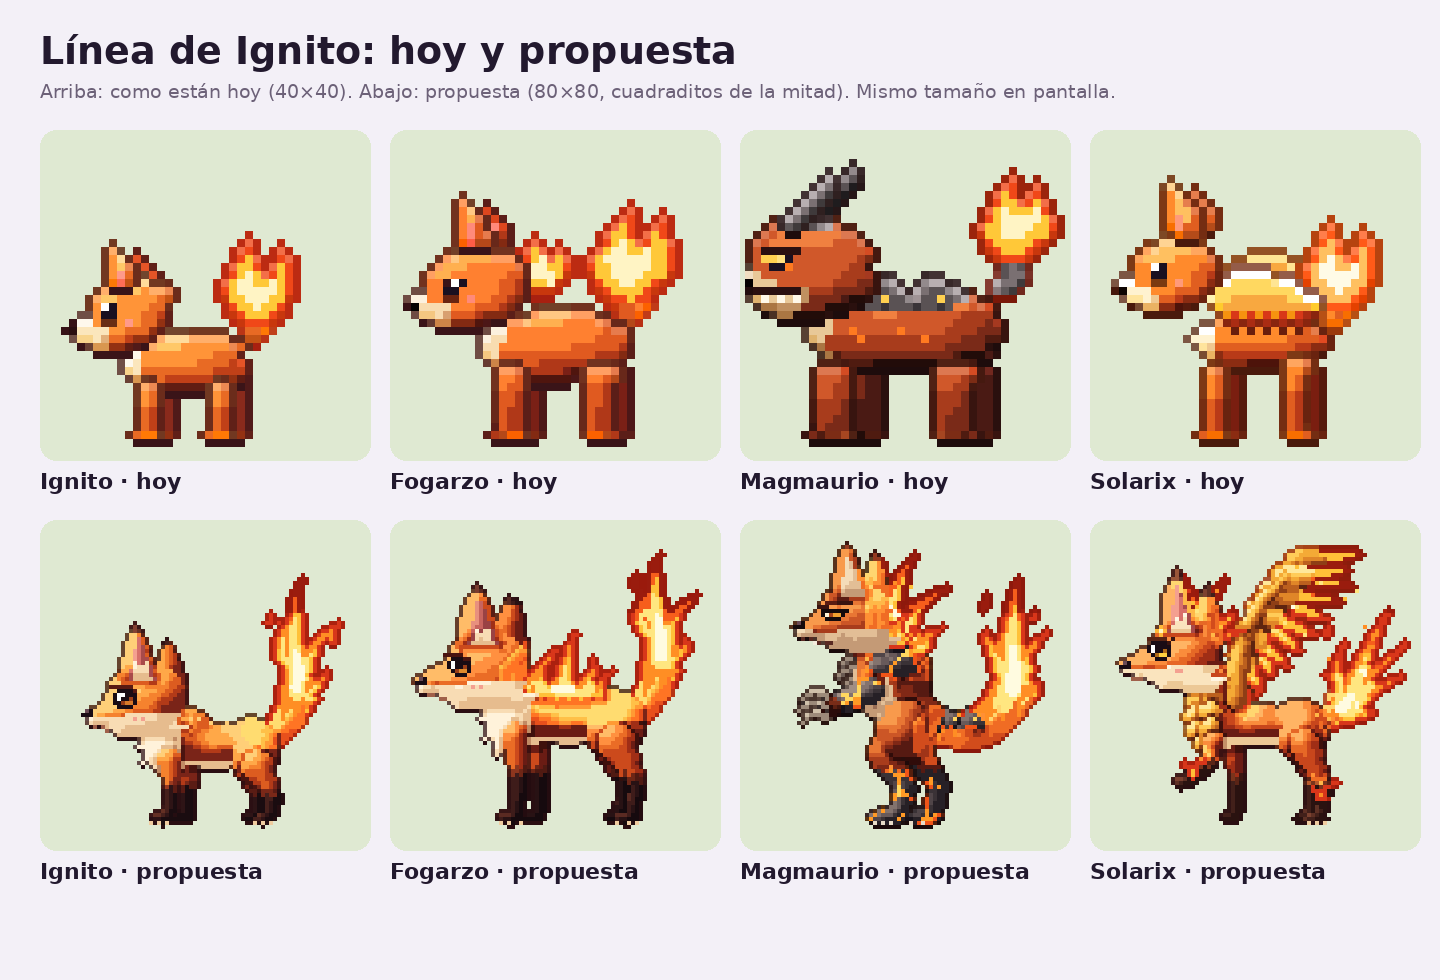
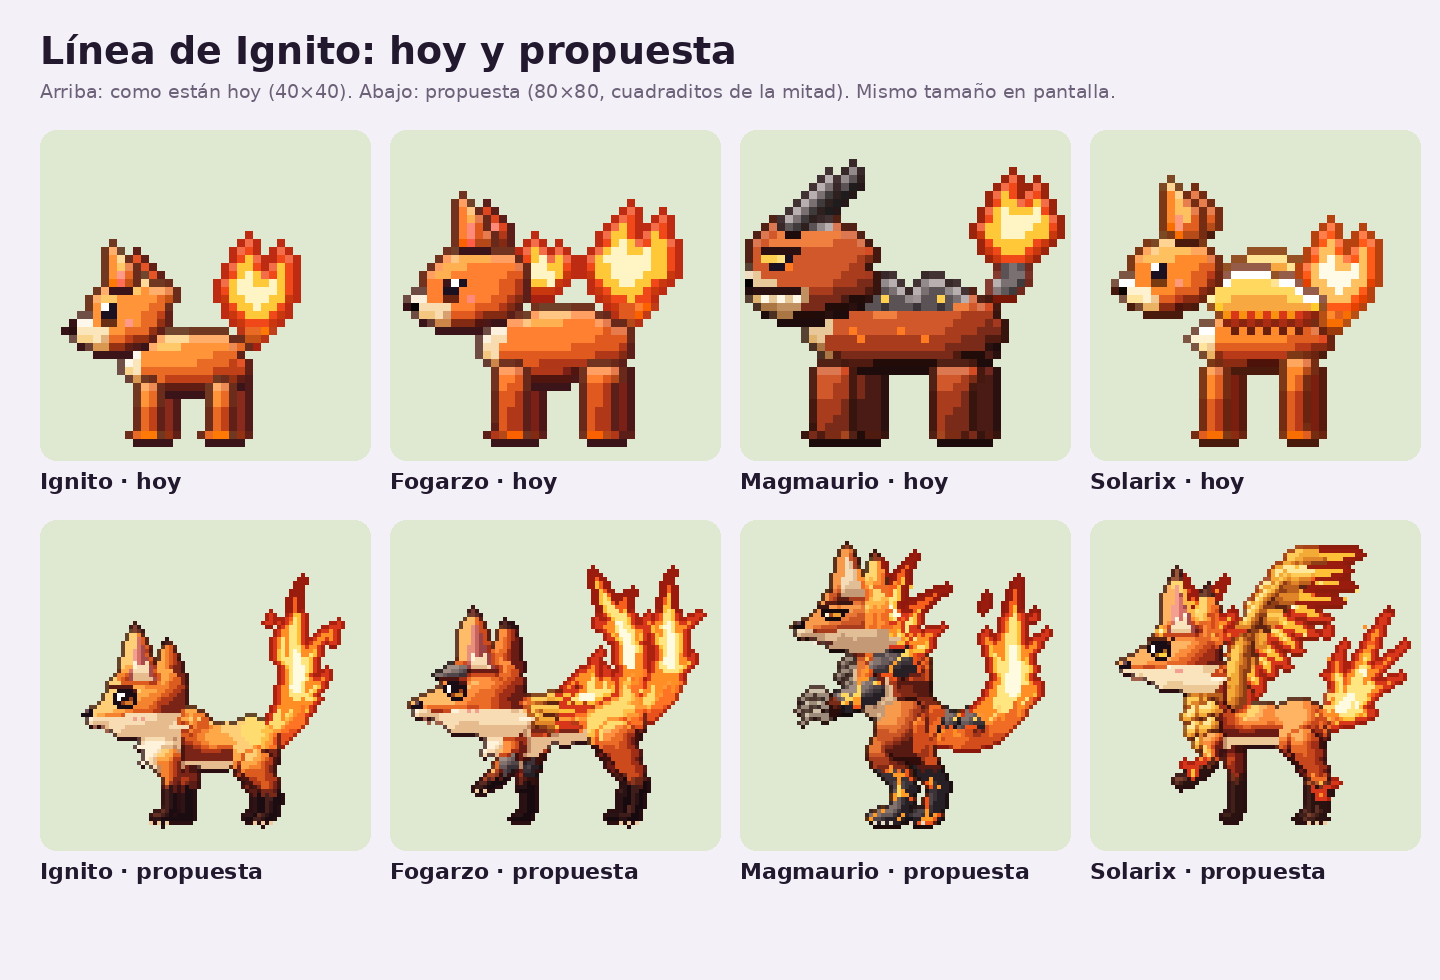
Estudio: Fogarzo en guardia, con dos colas y semillas de roca y alas
Claude-Session: https://claude.ai/code/session_01CbjX1Jp4CqY9crVcrZtYX4

Changed region(s): [[0.2812, 0.551, 0.5, 0.8571]]

diff --git a/estudio/fogarzo/fogarzo.py b/estudio/fogarzo/fogarzo.py
@@ -1,4 +1,4 @@
-"""Fogarzo: evolución de Ignito. «Su lomo arde como una hoguera.» Zorro joven: más alto y estilizado,
+"""Fogarzo (v2): evolución de Ignito. «Su lomo arde como una hoguera.» Zorro joven: más alto y estilizado,
 patas largas con calcetines oscuros hasta la rodilla, hocico más largo, mirada más decidida,
 crin de fuego a lo largo del lomo y cola encendida más larga."""
 import os, sys
@@ -13,9 +13,11 @@ RAMP = {
     'flame': ['#9a1c0e', '#d8361a', '#f65e1c', '#ff8e24', '#ffc038', '#ffe680', '#fffbe0'],
     'pink':  ['#9a4244', '#c8645e', '#e8907e'],
     'furd':  ['#32100e', '#501a12', '#6e2616', '#8c361e', '#a84626'],
+    'rock':  ['#16121a', '#262026', '#3a3236', '#504548', '#685a5a', '#83736e', '#a08e84'],
+    'gold':  ['#5e2410', '#8e3e16', '#bc601e', '#e08628', '#f4aa36', '#ffcc58', '#ffe89a'],
     'fur2':  ['#7a2418', '#b23a18', '#e8501c', '#ff7424', '#ff9a34', '#ffc048', '#ffdc70'],
 }
-MID = {'furd': 3, 'fur2': 4, 'fur': 4, 'cream': 3.9, 'sock': 2, 'flame': 4, 'pink': 1}
+MID = {'rock': 3.6, 'gold': 3.8, 'furd': 3, 'fur2': 4, 'fur': 4, 'cream': 3.9, 'sock': 2, 'flame': 4, 'pink': 1}
 SPAN = {'cream': 3.0, 'sock': 4, 'furd': 4}
 
 
@@ -26,60 +28,85 @@ def socks(top):
     return f
 
 
-def build(P):
-    c = Lienzo(RAMP, P, S=0.9, mid=MID, span=SPAN, lit={'fur': 'fur2', 'fur2': 'fur2', 'furd': 'furd'})
-    # ---- patas lejanas (largas; la trasera con corvejón marcado) ----
-    c.parte(c.caps([(54, 50), (57, 58), (60, 63), (58.5, 71)], [4.6, 3.0, 1.8, 1.6]) | c.ell(57, 72.9, 3.0, 1.5), socks(62), R=3, bias=-0.3, far=True)
-    c.parte(c.caps([(35, 49), (36, 60), (36, 71)], [3.2, 2.1, 1.7]) | c.ell(34.4, 72.9, 2.9, 1.5), socks(61), R=3, bias=-0.3, far=True)
-    # ---- cola: más larga que la de Ignito, se enciende desde la mitad ----
-    c.local(rot=P['tail'], piv=(59, 45))
-    SPINE = [(59, 45), (64.5, 42), (68, 36), (69.5, 29), (69.5, 22), (67.5, 15.5)]
-    tail = c.caps(SPINE, [2.8, 4.0, 5.0, 5.4, 4.6, 2.8])
-    TONG = [(67.5, 15.5, 14, -0.05, 0.2, 3.2), (71.5, 22, 11, 0.32, 0.24, 2.8), (72.5, 29, 7.5, 0.62, 0.2, 2.2),
-            (71.5, 35, 4.5, 0.9, 0.1, 1.6), (64.5, 20, 9, -0.32, 0.1, 2.2)]
-    tail, inner, core = c.fuego(tail, TONG, inner_base=c.caps(SPINE[3:], [2.9, 2.3, 1.3]),
-                                core=c.caps([(69.5, 28), (69.7, 22), (68.5, 17)], [1.7, 1.5, 0.9]), wisps=[(62, 8, 1.1)])
+Z = np.zeros((80, 80), bool)
 
-    def tail_mat(X, Y):
-        m = np.full(X.shape, 'fur', object)
-        k = Y + (X - 68) * 0.25; edge = 36.5 + 2.2 * np.sin(X * 1.7 + Y * 0.6)
-        m[k < edge + 4] = 'fur2'; m[k < edge] = 'flame'
-        return m
-    c.parte(tail, tail_mat, R=6, outline='#9a1a0c', fire=(inner, core))
+
+def rockplate(c, pts, far=False):
+    c.parte(c.poly(pts), 'rock', R=2, bias=-0.15 if far else 0.15, outline='#120a0a', far=far)
+
+
+def build(P):
+    """En guardia: agachado de adelante, cabeza baja, una pata levantada, a punto de saltar.
+    Dos colas de fuego. Semillas de sus dos formas finales: placas de roca en antebrazos y frente
+    (Magmaurio) y plumas de fuego que le brotan en los hombros (Solarix)."""
+    c = Lienzo(RAMP, P, S=0.9, mid=MID, span=SPAN, lit={'fur': 'fur2', 'fur2': 'fur2', 'furd': 'furd'})
+    # ---- patas lejanas: trasera estirada, delantera apoyada y adelantada ----
+    c.parte(c.caps([(54, 49), (57, 57), (60.5, 63), (59, 71)], [4.6, 3.0, 1.8, 1.6]) | c.ell(57.5, 72.9, 3.0, 1.5), socks(63), R=3, bias=-0.3, far=True)
+    c.parte(c.caps([(35, 52), (32.5, 61), (32.5, 71)], [3.2, 2.1, 1.8]) | c.ell(31, 72.9, 2.9, 1.5), socks(63), R=3, bias=-0.3, far=True)
+    rockplate(c, [(31.6, 57.6), (34.2, 56.6), (35.2, 59.2), (34, 61.6), (32, 61.2)], far=True)
+    # ---- dos colas de fuego: la de atrás más alta y abierta ----
+    def cola(spine, rr, tong, core_pts, edge0, far):
+        tail = c.caps(spine, rr)
+        tail, inner, core = c.fuego(tail, tong, inner_base=c.caps(spine[3:], [v * 0.55 for v in rr[3:]]),
+                                    core=c.caps(core_pts, [1.6, 1.3, 0.8]))
+
+        def tail_mat(X, Y):
+            m = np.full(X.shape, 'fur', object)
+            k = Y + (X - 68) * 0.25; edge = edge0 + 2.2 * np.sin(X * 1.7 + Y * 0.6)
+            m[k < edge + 4] = 'fur2'; m[k < edge] = 'flame'
+            return m
+        c.parte(tail, tail_mat, R=6, outline='#9a1a0c', fire=(inner, core), far=far, bias=-0.22 if far else 0)
+    c.local(rot=-P['tail'] * 0.8, piv=(58, 43))
+    cola([(58, 43), (60.5, 37), (61.5, 30.5), (60.5, 24), (58, 18), (54.5, 13.5)], [2.6, 3.5, 4.2, 4.3, 3.6, 2.2],
+         [(54.5, 13.5, 10, -0.45, 0.1, 2.5), (59.5, 18, 8, -0.05, 0.12, 2.2), (62.5, 24.5, 6, 0.35, 0.12, 1.8), (56, 22, 6, -0.75, 0.04, 1.7)],
+         [(61, 30), (60.2, 24), (57.8, 19)], 33, True)
+    c.local(rot=P['tail'], piv=(59, 45))
+    cola([(59, 45), (65, 42.5), (69.5, 37), (72, 30.5), (72.5, 24), (71, 18)], [2.8, 3.8, 4.6, 4.8, 4.0, 2.5],
+         [(71, 18, 12, -0.02, 0.2, 2.8), (74, 24, 7.5, 0.36, 0.2, 2.3), (75, 31, 5.5, 0.75, 0.15, 1.8), (68.5, 23, 7, -0.35, 0.08, 1.9)],
+         [(72, 30), (72.2, 24.5), (71.2, 19.5)], 38, False)
+    c.local()
     # ---- oreja lejana ----
-    c.local(dy=P['head'])
+    c.local(dx=-1, dy=P['head'] + 7)
     c.parte(c.poly([(23.5, 25), (24.3, 19.5), (25.8, 14.8), (27.3, 12), (28.9, 13.5), (30.5, 18.6), (32, 25)]),
             lambda X, Y: np.where(Y < 13.5, 'sock', 'fur').astype(object), R=3, bias=-0.3, far=True)
     c.local()
-    # ---- cuerpo: pecho hondo, cintura marcada, anca fuerte ----
-    body = c.ell(31, 44, 9, 9.5) | c.ell(35, 40, 7, 5.5) | c.ell(44, 46, 11, 6.5) | c.ell(56, 45, 8.5, 7.5)
-    c.parte(body, lambda X, Y: np.where((Y > 50) & (X < 53), 'cream', 'fur').astype(object), R=8)
-    # pechera tupida (más grande que la de Ignito) con mechones hacia adelante y abajo
-    c.parte(c.ell(27, 45, 6.5, 8.5) | c.poly([(24, 40), (19.5, 46), (23, 46.5), (20.5, 51), (24.5, 50), (24, 55), (28, 52), (29.5, 57), (31.5, 50), (31, 41)]),
+    # ---- cuerpo agachado: pecho bajo, anca alta ----
+    body = c.ell(31, 48, 9, 8.5) | c.ell(35, 44.5, 7, 5.5) | c.ell(44, 46, 11, 6.2, -0.1) | c.ell(56, 44, 8.5, 7.5)
+    c.parte(body, lambda X, Y: np.where((Y > 51 - (X - 30) * 0.12) & (X < 53), 'cream', 'fur').astype(object), R=8)
+    c.parte(c.ell(27, 49, 6.5, 8) | c.poly([(24, 44), (19.5, 50), (23, 50.5), (20.5, 55), (24.5, 54), (25, 58), (28.5, 55), (30, 59), (31.5, 53), (31, 45)]),
             'cream', R=5, bias=0.05, soft=True)
-    c.parte(c.ell(56.5, 49, 7.5, 8, 0.3), 'fur', R=6, bias=0.03, soft=True)
-    # ---- crin de fuego: el lomo arde como una hoguera ----
-    c.local(rot=P['tail'] * 0.4, piv=(44, 40))
-    ridge = c.caps([(33, 37), (40, 38.2), (47, 39), (53, 38.6)], [2.4, 2.8, 2.6, 2.0])
-    MANE = [(41.5, 38, 15, 0.12, 0.20, 3.2), (36, 37.2, 10, 0.05, 0.16, 2.6), (47, 38.6, 11, 0.28, 0.22, 2.7),
-            (52, 38.6, 6.5, 0.5, 0.15, 2.0), (32.5, 37.4, 5, -0.15, 0.1, 1.6)]
-    mane, minner, mcore = c.fuego(ridge, MANE, inner_base=c.caps([(36, 37.5), (50, 38.8)], 1.4),
-                                  core=c.caps([(40, 37), (45, 37.6)], 1.0))
-
-    def mane_mat(X, Y):
-        m = np.full(X.shape, 'flame', object)
-        m[Y > 39.6 + np.sin(X * 1.9) * 0.7] = 'fur2'
-        return m
-    c.parte(mane, mane_mat, R=4, outline='#9a1a0c', fire=(minner, mcore))
+    c.parte(c.ell(56.5, 48, 7.5, 8, 0.3), 'fur', R=6, bias=0.03, soft=True)
+    # ---- el lomo arde: crin de fuego del medio del lomo hacia el anca ----
+    c.local(rot=P['tail'] * 0.4, piv=(47, 40))
+    ridge = c.caps([(44, 40.5), (48.5, 40), (53, 38.5), (56, 37.5)], [2.2, 2.6, 2.4, 1.8])
+    MANE = [(48.5, 40, 12, 0.18, 0.2, 2.9), (44.5, 40.5, 8, 0.05, 0.15, 2.3), (51.5, 38.6, 9, 0.32, 0.2, 2.4), (55.5, 37.6, 5.5, 0.55, 0.12, 1.8)]
+    mane, minner, mcore = c.fuego(ridge, MANE, inner_base=c.caps([(45, 40.2), (54, 38.2)], 1.3), core=c.caps([(47, 39.6), (50.5, 39.4)], 0.9))
+    c.parte(mane, lambda X, Y: np.where(Y > 41.4 + np.sin(X * 1.9) * 0.6, 'fur2', 'flame').astype(object), R=4, outline='#9a1a0c', fire=(minner, mcore))
     c.local()
-    # ---- patas cercanas ----
-    c.parte(c.caps([(57, 52), (60.5, 59), (63, 64), (61.5, 71)], [5.2, 3.2, 2.0, 1.8]) | c.ell(60, 72.9, 3.3, 1.6), socks(63), R=3)
-    c.parte(c.caps([(29, 50), (30, 60), (29.5, 71)], [3.6, 2.3, 1.9]) | c.ell(27.8, 72.9, 3.1, 1.6), socks(61), R=3)
-    # ---- cabeza: más larga y angulosa que la de Ignito ----
-    c.local(dy=P['head'])
+    # ---- plumas de fuego que le brotan en el hombro (todavía cerradas) ----
+    c.local(rot=-P['wing'] * 0.12, piv=(35.5, 44))
+    for i, (bx, by, ang, L) in enumerate([(35, 42, 76, 13), (35, 44.2, 91, 14.5), (35.4, 46.4, 106, 11)]):   # ala plegada en el costado
+        a = np.radians(ang)
+        pts = [(bx + np.sin(a) * L * t, by - np.cos(a) * L * t - 1.5 * t * t) for t in (0, 0.35, 0.7, 1.0)]
+        fm = c.caps(pts, [2.3, 1.9, 1.2, 0.5])
+
+        def fmat(X, Y, bx=bx, by=by, L=L):
+            m = np.full(X.shape, 'gold', object)
+            m[np.hypot(X - bx, Y - by) > L * 0.45] = 'flame'
+            return m
+        c.parte(fm, fmat, R=2, outline='#5a1a0c', bias=-0.08 if i % 2 else -0.16, fire=(c.caps(pts[1:], [0.9, 0.7, 0.4]), Z))
+    c.local()
+    # ---- patas cercanas: trasera firme, delantera levantada y doblada ----
+    c.parte(c.caps([(57, 51), (60.5, 58), (63.5, 64), (62, 71)], [5.2, 3.2, 2.0, 1.8]) | c.ell(60.5, 72.9, 3.3, 1.6), socks(64), R=3)
+    c.parte(c.caps([(29, 53), (25.5, 59.5), (22.5, 63)], [3.6, 2.4, 2.0]) | c.ell(20.6, 64, 2.9, 1.7, -0.5), socks(62.5), R=3)
+    rockplate(c, [(25.4, 56.2), (28.4, 55.6), (29.2, 58.4), (26.6, 60.6), (24.8, 59.4)])
+    # ---- cabeza baja y adelantada (en guardia) ----
+    c.local(dx=-1, dy=P['head'] + 7)
     cheek = c.poly([(8, 37), (13, 42), (20, 43.5), (30, 42.5), (34.5, 39), (29.5, 38.5), (32, 35.5), (23, 34.5)])
     head = c.ell(21, 30.5, 11.5, 9.5, -0.12) | c.poly([(13, 28), (1.5, 34.5), (2.5, 37.5), (14, 40)]) | cheek
     c.parte(head, lambda X, Y: np.where((Y > 36.2 + (X - 2) * 0.03) | (cheek & (Y > 35.5)), 'cream', 'fur').astype(object), R=7, bias=0.04)
+    # placa de roca en la frente: la roca empieza a asomar
+    pass
 
     def ear_mat(X, Y):
         m = np.full(X.shape, 'fur', object)
@@ -91,21 +118,23 @@ def build(P):
         return m
     c.parte(c.poly([(14.2, 25.5), (14.4, 20), (15.4, 14.5), (16.9, 10.6), (18.2, 8.5), (19.6, 9.9), (21.4, 14.5), (23.2, 19.6), (24.5, 24.8)]),
             ear_mat, R=4)
+    rockplate(c, [(8.6, 26.4), (11.5, 24.4), (15.5, 24.2), (16.4, 26), (12.5, 26.8)])     # la roca asoma en la frente
     c.local()
     c.render()
     # ---- detalles ----
-    c.local(dy=P['head'])
+    c.local(dx=-1, dy=P['head'] + 7)
     K = {'k': '#1a0c14', 'a': '#9a3e18', 'A': '#e08a2c', 'W': '#ffffff'}
     if P['blink']:
         ex, ey = c.patron(10.6, 28.4, ['', '', 'k...k', '.kkk.'], K)
-    else:   # ojo algo más rasgado que el de Ignito (más decidido)
+    else:   # mirada concentrada, hacia adelante
         ex, ey = c.patron(10.6, 28.4, ['.kkkk.', 'kWkkkk', 'kWkkak', '.kaAAk', '..kkk.'], K)
-    for dx in range(-1, 6): c.put(ex + dx, ey - 1 + (dx > 3), '#4a1410')     # ceja inclinada
+    for dx in range(-1, 6): c.put(ex + dx, ey - 1 + (dx > 3), '#4a1410')
     c.patron(1.2, 34.2, ['.nn', 'nnn'], {'n': '#1a0c14'}); c.putd(2.4, 34.2, '#6a4a54')
     for x, y in [(5, 38.8), (6.5, 39.2), (8, 39.8), (9.5, 40.2)]: c.putd(x, y, '#a0604a')
     for x, y in [(17.5, 36.3), (19, 36.3)]: c.putd(x, y, '#f4a090')
     c.local()
-    for x in (25, 27.5, 30, 57.5, 60, 62.5): c.putd(x, 74.5, '#f0cca0')
+    for x in (58, 60.5, 63): c.putd(x, 74.5, '#f0cca0')
+    for x in (18.5, 20.4): c.putd(x, 65.4, '#f0cca0')
     return c
 
 

diff --git a/estudio/fogarzo/fogarzo_v1.py b/estudio/fogarzo/fogarzo_v1.py
@@ -1,0 +1,113 @@
+"""Fogarzo: evolución de Ignito. «Su lomo arde como una hoguera.» Zorro joven: más alto y estilizado,
+patas largas con calcetines oscuros hasta la rodilla, hocico más largo, mirada más decidida,
+crin de fuego a lo largo del lomo y cola encendida más larga."""
+import os, sys
+sys.path.insert(0, os.path.join(os.path.dirname(os.path.abspath(__file__)), '..'))
+import numpy as np
+from motor import Lienzo, args
+
+RAMP = {
+    'fur':   ['#3e100c', '#6a1c14', '#a02e16', '#cc4a1c', '#ea6c26', '#ff9040', '#ffbc68'],
+    'cream': ['#8a5a44', '#c08a64', '#e6bc8e', '#f8dcb4', '#fff2da'],
+    'sock':  ['#160a0e', '#281214', '#3e1c1a', '#5a2a22', '#7a3c2e'],
+    'flame': ['#9a1c0e', '#d8361a', '#f65e1c', '#ff8e24', '#ffc038', '#ffe680', '#fffbe0'],
+    'pink':  ['#9a4244', '#c8645e', '#e8907e'],
+    'furd':  ['#32100e', '#501a12', '#6e2616', '#8c361e', '#a84626'],
+    'fur2':  ['#7a2418', '#b23a18', '#e8501c', '#ff7424', '#ff9a34', '#ffc048', '#ffdc70'],
+}
+MID = {'furd': 3, 'fur2': 4, 'fur': 4, 'cream': 3.9, 'sock': 2, 'flame': 4, 'pink': 1}
+SPAN = {'cream': 3.0, 'sock': 4, 'furd': 4}
+
+
+def socks(top):
+    def f(X, Y):
+        t = top + np.sin(X * 2.3) * 0.8
+        return np.where(Y >= t, 'sock', np.where(Y >= t - 2.4, 'furd', 'fur')).astype(object)
+    return f
+
+
+def build(P):
+    c = Lienzo(RAMP, P, S=0.9, mid=MID, span=SPAN, lit={'fur': 'fur2', 'fur2': 'fur2', 'furd': 'furd'})
+    # ---- patas lejanas (largas; la trasera con corvejón marcado) ----
+    c.parte(c.caps([(54, 50), (57, 58), (60, 63), (58.5, 71)], [4.6, 3.0, 1.8, 1.6]) | c.ell(57, 72.9, 3.0, 1.5), socks(62), R=3, bias=-0.3, far=True)
+    c.parte(c.caps([(35, 49), (36, 60), (36, 71)], [3.2, 2.1, 1.7]) | c.ell(34.4, 72.9, 2.9, 1.5), socks(61), R=3, bias=-0.3, far=True)
+    # ---- cola: más larga que la de Ignito, se enciende desde la mitad ----
+    c.local(rot=P['tail'], piv=(59, 45))
+    SPINE = [(59, 45), (64.5, 42), (68, 36), (69.5, 29), (69.5, 22), (67.5, 15.5)]
+    tail = c.caps(SPINE, [2.8, 4.0, 5.0, 5.4, 4.6, 2.8])
+    TONG = [(67.5, 15.5, 14, -0.05, 0.2, 3.2), (71.5, 22, 11, 0.32, 0.24, 2.8), (72.5, 29, 7.5, 0.62, 0.2, 2.2),
+            (71.5, 35, 4.5, 0.9, 0.1, 1.6), (64.5, 20, 9, -0.32, 0.1, 2.2)]
+    tail, inner, core = c.fuego(tail, TONG, inner_base=c.caps(SPINE[3:], [2.9, 2.3, 1.3]),
+                                core=c.caps([(69.5, 28), (69.7, 22), (68.5, 17)], [1.7, 1.5, 0.9]), wisps=[(62, 8, 1.1)])
+
+    def tail_mat(X, Y):
+        m = np.full(X.shape, 'fur', object)
+        k = Y + (X - 68) * 0.25; edge = 36.5 + 2.2 * np.sin(X * 1.7 + Y * 0.6)
+        m[k < edge + 4] = 'fur2'; m[k < edge] = 'flame'
+        return m
+    c.parte(tail, tail_mat, R=6, outline='#9a1a0c', fire=(inner, core))
+    # ---- oreja lejana ----
+    c.local(dy=P['head'])
+    c.parte(c.poly([(23.5, 25), (24.3, 19.5), (25.8, 14.8), (27.3, 12), (28.9, 13.5), (30.5, 18.6), (32, 25)]),
+            lambda X, Y: np.where(Y < 13.5, 'sock', 'fur').astype(object), R=3, bias=-0.3, far=True)
+    c.local()
+    # ---- cuerpo: pecho hondo, cintura marcada, anca fuerte ----
+    body = c.ell(31, 44, 9, 9.5) | c.ell(35, 40, 7, 5.5) | c.ell(44, 46, 11, 6.5) | c.ell(56, 45, 8.5, 7.5)
+    c.parte(body, lambda X, Y: np.where((Y > 50) & (X < 53), 'cream', 'fur').astype(object), R=8)
+    # pechera tupida (más grande que la de Ignito) con mechones hacia adelante y abajo
+    c.parte(c.ell(27, 45, 6.5, 8.5) | c.poly([(24, 40), (19.5, 46), (23, 46.5), (20.5, 51), (24.5, 50), (24, 55), (28, 52), (29.5, 57), (31.5, 50), (31, 41)]),
+            'cream', R=5, bias=0.05, soft=True)
+    c.parte(c.ell(56.5, 49, 7.5, 8, 0.3), 'fur', R=6, bias=0.03, soft=True)
+    # ---- crin de fuego: el lomo arde como una hoguera ----
+    c.local(rot=P['tail'] * 0.4, piv=(44, 40))
+    ridge = c.caps([(33, 37), (40, 38.2), (47, 39), (53, 38.6)], [2.4, 2.8, 2.6, 2.0])
+    MANE = [(41.5, 38, 15, 0.12, 0.20, 3.2), (36, 37.2, 10, 0.05, 0.16, 2.6), (47, 38.6, 11, 0.28, 0.22, 2.7),
+            (52, 38.6, 6.5, 0.5, 0.15, 2.0), (32.5, 37.4, 5, -0.15, 0.1, 1.6)]
+    mane, minner, mcore = c.fuego(ridge, MANE, inner_base=c.caps([(36, 37.5), (50, 38.8)], 1.4),
+                                  core=c.caps([(40, 37), (45, 37.6)], 1.0))
+
+    def mane_mat(X, Y):
+        m = np.full(X.shape, 'flame', object)
+        m[Y > 39.6 + np.sin(X * 1.9) * 0.7] = 'fur2'
+        return m
+    c.parte(mane, mane_mat, R=4, outline='#9a1a0c', fire=(minner, mcore))
+    c.local()
+    # ---- patas cercanas ----
+    c.parte(c.caps([(57, 52), (60.5, 59), (63, 64), (61.5, 71)], [5.2, 3.2, 2.0, 1.8]) | c.ell(60, 72.9, 3.3, 1.6), socks(63), R=3)
+    c.parte(c.caps([(29, 50), (30, 60), (29.5, 71)], [3.6, 2.3, 1.9]) | c.ell(27.8, 72.9, 3.1, 1.6), socks(61), R=3)
+    # ---- cabeza: más larga y angulosa que la de Ignito ----
+    c.local(dy=P['head'])
+    cheek = c.poly([(8, 37), (13, 42), (20, 43.5), (30, 42.5), (34.5, 39), (29.5, 38.5), (32, 35.5), (23, 34.5)])
+    head = c.ell(21, 30.5, 11.5, 9.5, -0.12) | c.poly([(13, 28), (1.5, 34.5), (2.5, 37.5), (14, 40)]) | cheek
+    c.parte(head, lambda X, Y: np.where((Y > 36.2 + (X - 2) * 0.03) | (cheek & (Y > 35.5)), 'cream', 'fur').astype(object), R=7, bias=0.04)
+
+    def ear_mat(X, Y):
+        m = np.full(X.shape, 'fur', object)
+        cx = 18.4 + (Y - 8) * 0.1; half = (Y - 10.6) * 0.3
+        inner = (Y > 11) & (Y < 25) & (np.abs(X - cx) < half)
+        m[inner] = 'pink'
+        m[inner & (Y > 22 - (np.abs(X - cx) * 1.5)) & (np.abs(X - cx) < half * 0.7)] = 'cream'
+        m[Y < 10.3] = 'sock'
+        return m
+    c.parte(c.poly([(14.2, 25.5), (14.4, 20), (15.4, 14.5), (16.9, 10.6), (18.2, 8.5), (19.6, 9.9), (21.4, 14.5), (23.2, 19.6), (24.5, 24.8)]),
+            ear_mat, R=4)
+    c.local()
+    c.render()
+    # ---- detalles ----
+    c.local(dy=P['head'])
+    K = {'k': '#1a0c14', 'a': '#9a3e18', 'A': '#e08a2c', 'W': '#ffffff'}
+    if P['blink']:
+        ex, ey = c.patron(10.6, 28.4, ['', '', 'k...k', '.kkk.'], K)
+    else:   # ojo algo más rasgado que el de Ignito (más decidido)
+        ex, ey = c.patron(10.6, 28.4, ['.kkkk.', 'kWkkkk', 'kWkkak', '.kaAAk', '..kkk.'], K)
+    for dx in range(-1, 6): c.put(ex + dx, ey - 1 + (dx > 3), '#4a1410')     # ceja inclinada
+    c.patron(1.2, 34.2, ['.nn', 'nnn'], {'n': '#1a0c14'}); c.putd(2.4, 34.2, '#6a4a54')
+    for x, y in [(5, 38.8), (6.5, 39.2), (8, 39.8), (9.5, 40.2)]: c.putd(x, y, '#a0604a')
+    for x, y in [(17.5, 36.3), (19, 36.3)]: c.putd(x, y, '#f4a090')
+    c.local()
+    for x in (25, 27.5, 30, 57.5, 60, 62.5): c.putd(x, 74.5, '#f0cca0')
+    return c
+
+
+if __name__ == '__main__':
+    build(args({})).guardar()
